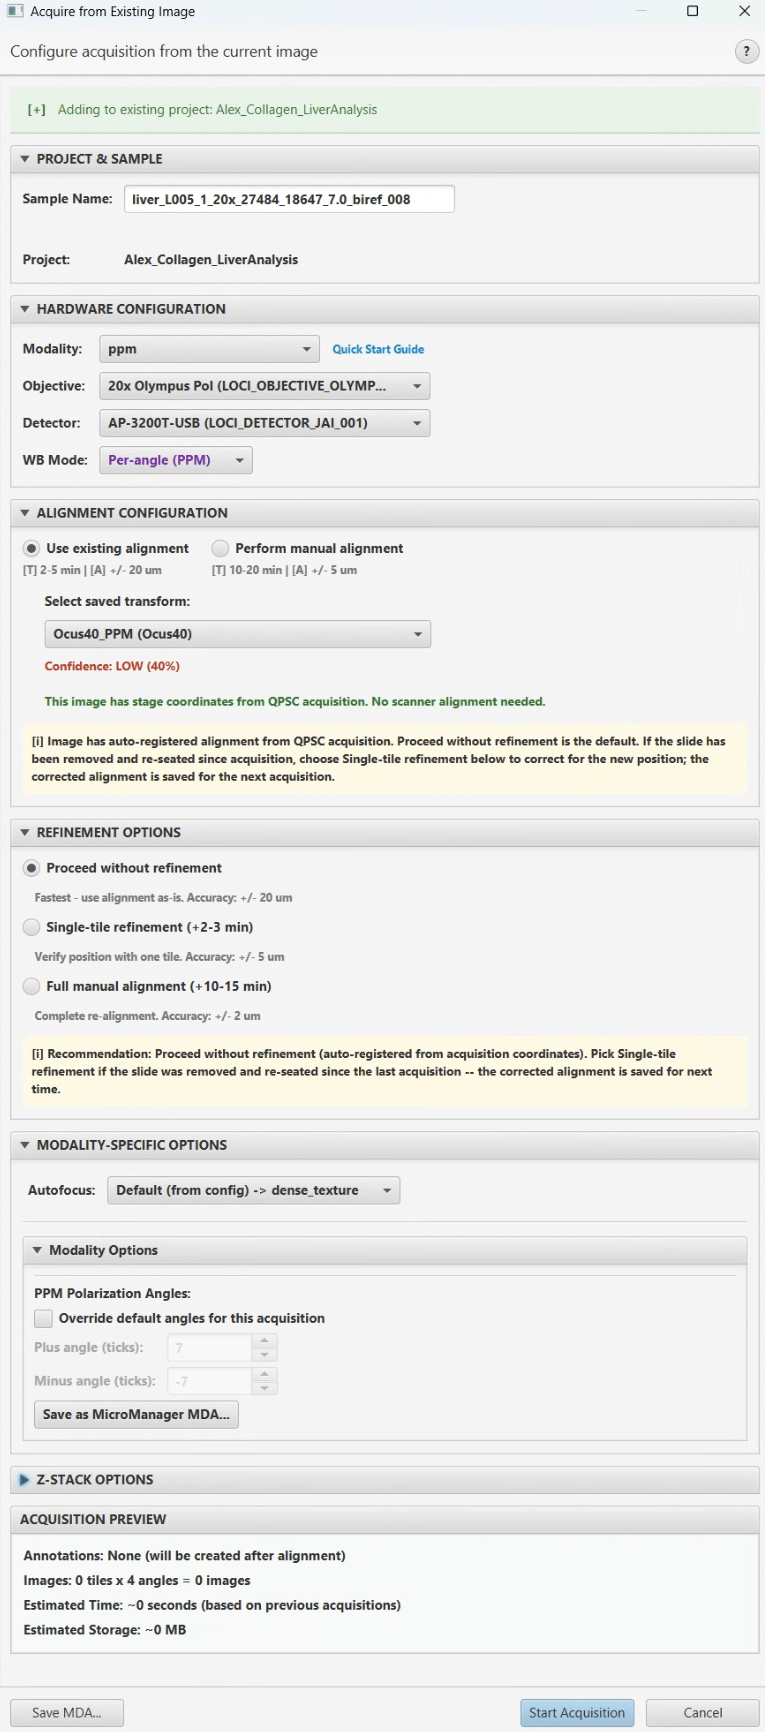
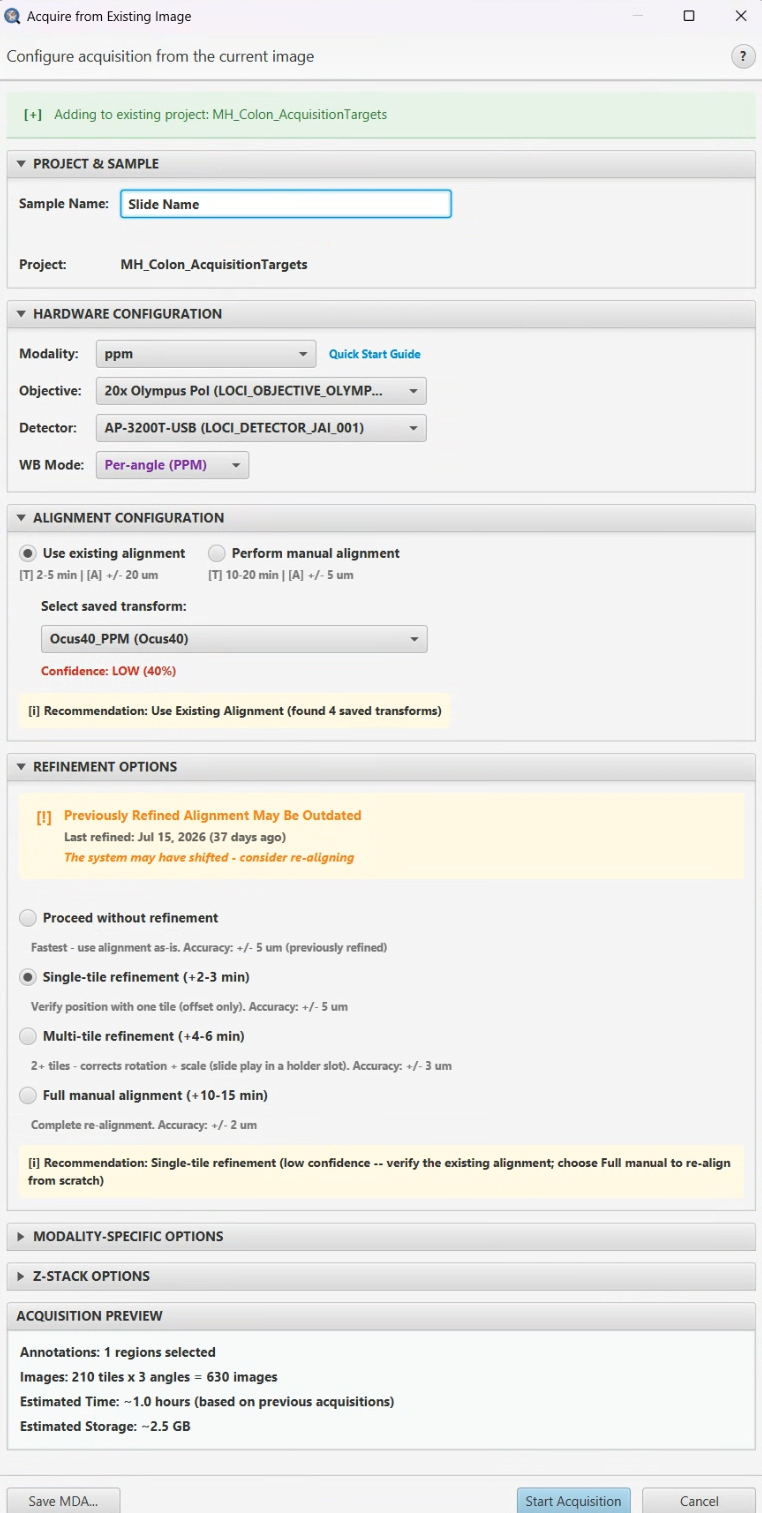
docs(images): refresh six stale screenshots, add modality/Z-stack and 4-slide figures
Re-captured on the Windows workstation: main menu, Stage Map, Live Viewer,
Bounded Acquisition, the Existing Image consolidated dialog, and the annotation
class-selection dialog that precedes it. All six were flagged by
check-doc-images.sh as stale since 2026-07-22.

Two new figures flesh out workflows that had no picture:
- Docs_ExistingImage_Modality_Zstack.png -- the MODALITY-SPECIFIC and Z-STACK
  panes expanded (they are collapsed in the consolidated-dialog figure), with
  the PPM angle checkboxes and per-angle exposures. This closes the
  "PPM modality options (angles)" gap in the registry's missing list.
- Docs_StageMap2.png -- the four-slide vertical carrier with per-slot macros,
  alongside the existing single-slide view.

The re-captures are raw, so the numbered brackets/circles that
annotate_screenshots.py used to bake onto three of them are gone. No doc prose
refers to those numbers, so the figures stand on their own; ANNOTATION_REFERENCE
now records the unannotated state and the stale Y-bands.

Claude-Session: https://claude.ai/code/session_01RGGpEUhYNeo6kpExXM8tGC

Changed region(s): [[0.0, 0.0, 0.9961, 1.0], [0.664, 0.963, 0.9961, 1.0], [0.9357, 0.0, 0.9961, 0.0621]]

diff --git a/documentation/images/IMAGE_REGISTRY.md b/documentation/images/IMAGE_REGISTRY.md
@@ -12,19 +12,20 @@ This file tracks the relationship between documentation screenshots and the Java
 |------------|-------------------|---------------|--------|
 | `Docs_AcquisitionWizard.png` | `ui/AcquisitionWizardDialog.java` | 2026-05-27 | OK |
 | `Docs_AcquisitionWorkflowProgress.png` | `ui/DualProgressDialog.java` | 2026-05-27 | OK |
-| `Docs_AnnotationAcquisition.png` | `ui/AnnotationAcquisitionDialog.java` | 2026-07-23 | OK -- re-mapped from the broad ExistingImageAcquisitionController to the actual class selection dialog; the multi-tile refinement radio lives in the consolidated dialog, not here, so this no longer false-flags |
+| `Docs_AnnotationAcquisition.png` | `ui/AnnotationAcquisitionDialog.java` | 2026-08-22 | OK -- re-captured (unannotated). Mapped to the actual class selection dialog rather than the broad ExistingImageAcquisitionController; the multi-tile refinement radio lives in the consolidated dialog, not here, so this no longer false-flags |
 | `Docs_AutofocusConfigurationEditor.png` | `controller/AutofocusEditorWorkflow.java` | 2026-05-27 | OK |
 | `Docs_AutofocusParameterBenchmark.png` | `ui/AutofocusBenchmarkDialog.java` | -- | CHECK |
 | `Docs_BackgroundCollection.png` | `ui/BackgroundCollectionController.java` | 2026-05-27 | OK |
-| `Docs_BoundedAcquisition.png` | `ui/UnifiedAcquisitionController.java` | 2026-05-27 | OK |
+| `Docs_BoundedAcquisition.png` | `ui/UnifiedAcquisitionController.java` | 2026-08-22 | OK -- re-captured (unannotated; the numbered callouts from the 2026-05-27 figure are gone) |
 | `Docs_BoundedAcquisition_TileGrid.png` | Lab-meeting slide deck (workflow figure; not a single UI class) | 2026-06-01 | OK |
 | `Docs_CameraControl.png` | `ui/CameraControlController.java` | 2026-05-27 | OK |
 | `Docs_CommunicationSettings.png` | `ui/ServerConnectionController.java` | 2026-05-27 | OK |
 | `Docs_CommunicationSettings_Alerts.png` | `ui/ServerConnectionController.java` | 2026-05-27 | OK |
 | `Docs_CrossInstrumentWorkflow.png` | Lab-meeting slide deck (workflow figure; not a single UI class) | 2026-06-01 | OK |
-| `Docs_ExistingImage_ConsolidatedDialog.png` | `ui/ExistingImageAcquisitionController.java` | 2026-05-27 | OK |
+| `Docs_ExistingImage_ConsolidatedDialog.png` | `ui/ExistingImageAcquisitionController.java` | 2026-08-22 | OK -- re-captured (unannotated). Modality / Z-stack panes are collapsed here; see `Docs_ExistingImage_Modality_Zstack.png` for those expanded |
 | `Docs_ExistingImage_FluorescenceProject.png` | Lab-meeting slide deck (QuPath project view; not a single UI class) | 2026-06-01 | OK |
-| `Docs_LiveViewer.png` | `ui/liveviewer/LiveViewerWindow.java` | 2026-05-27 | OK |
+| `Docs_ExistingImage_Modality_Zstack.png` | `ui/ExistingImageAcquisitionController.java`, `modality/ppm/ui/PPMBoundingBoxUI.java` | 2026-08-22 | OK -- the MODALITY-SPECIFIC + Z-STACK panes expanded (PPM angles shown); companion to the consolidated-dialog figure |
+| `Docs_LiveViewer.png` | `ui/liveviewer/LiveViewerWindow.java` | 2026-08-22 | OK -- re-captured (unannotated; the numbered callouts from the 2026-05-27 figure are gone) |
 | `Docs_LiveViewer_Navigate.png` | `ui/liveviewer/StageControlPanel.java` | -- | CHECK -- renamed from `Docs_LiveViewer_Position.png` (tab renamed Position -> Navigate 2026-07-22); needs re-capture |
 | `Docs_LiveViewer_SavedPoints.png` | `ui/liveviewer/StageControlPanel.java` | 2026-07-22 | OK -- drift check false-flagged it on 2026-07-22 (shared source with Navigate); no visible change, no re-capture needed |
 | `Docs_LiveViewer_Camera.png` | `ui/liveviewer/LiveViewerWindow.java` (camera tab) | -- | CHECK -- previously untracked |
@@ -32,7 +33,8 @@ This file tracks the relationship between documentation screenshots and the Java
 | `Docs_MicroscopeAlignment_RefineAlignment.png` | `controller/workflow/SingleTileRefinement.java` (3-point / single-tile refinement dialog) | -- | CHECK -- SIFT refinement dialogs changed substantially; verify or re-capture |
 | `Docs_MultiTileRefinement.png` | `controller/workflow/MultiTileRefinement.java` (numbered multi-tile SIFT panel, initial state) | 2026-07-23 | OK |
 | `Docs_MultiTileRefinement2.png` | `controller/workflow/MultiTileRefinement.java` (per-point capture state) + SIFT Matching Settings dialog (`ui/SiftAutoAlignHelper.java`) | 2026-07-23 | OK |
-| `Docs_StageMap.png` | `ui/stagemap/StageMapWindow.java`, `ui/stagemap/StageMapCanvas.java` | -- | CHECK -- new "Calibrate..." button since 2026-05-27 |
+| `Docs_StageMap.png` | `ui/stagemap/StageMapWindow.java`, `ui/stagemap/StageMapCanvas.java` | 2026-08-22 | OK -- re-captured; single horizontal slide with macro overlay, now showing the Slide-placement dropdown and "Calibrate..." |
+| `Docs_StageMap2.png` | `ui/stagemap/StageMapWindow.java`, `ui/stagemap/StageMapCanvas.java` | 2026-08-22 | OK -- four-slide vertical carrier with per-slot macros. Supersedes `Docs_MultiSlide_StageMap.png` as the current-UI capture of this insert (that one predates the Slide-placement dropdown but is still the figure used in the multi-slide workflow doc) |
 | `Docs_DishCoverslipCalibration.png` | Diagram / `ui/stagemap/StageMapWindow.java` insert calibration | -- | CHECK -- previously untracked |
 | `Docs_PropagationManager.png` | `controller/ForwardPropagationWorkflow.java` | -- | CHECK -- previously untracked |
 | `Docs_NoiseCharacterization.png` | `ui/NoiseCharacterizationDialog.java` | -- | CHECK -- previously untracked |
@@ -42,7 +44,7 @@ This file tracks the relationship between documentation screenshots and the Java
 | `Docs_SystemArchitecture.png` | Lab-meeting slide deck (architecture diagram; not a UI class) | 2026-06-01 | OK |
 | `Docs_WorkflowOverview_Desktop.png` | Lab-meeting slide deck (full-desktop composite; multiple UI classes) | 2026-06-01 | OK |
 | `Docs_WhiteBalanceCalibration.png` | `ui/WhiteBalanceDialog.java` | 2026-05-27 | OK |
-| `Docs_mainmenu.png` | `SetupScope.java` | -- | CHECK -- menu changes since 2026-05-27 |
+| `Docs_mainmenu.png` | `SetupScope.java` | 2026-08-22 | OK -- re-captured after the Light Path Orientation / Migrate Flipped Duplicates menu additions |
 | `Docs_ppmmenu.png` | `SetupScope.java` (PPM modality submenu) | -- | CHECK |
 | `Docs_MultiSlide_Assignment.png` | `ui/MultiSlideAssignmentDialog.java` | 2026-07-23 | OK |
 | `Docs_MultiSlide_BatchPanel.png` | `controller/MultiSlideExistingImageWorkflow.java` | 2026-07-23 | OK |
@@ -60,7 +62,6 @@ This file tracks the relationship between documentation screenshots and the Java
 | Alignment Refinement with SIFT | `controller/workflow/SingleTileRefinement.java` | `Docs_AlignmentRefinementSIFT.png` |
 | Propagation Manager | `controller/ForwardPropagationWorkflow.java` | `Docs_PropagationManager.png` |
 | Z-Stack / Time-Lapse Dialog | `controller/StackTimeLapseWorkflow.java` | `Docs_ZStackTimeLapse.png` |
-| PPM modality options (angles) in acquisition dialog | `modality/ppm/*` UI section | `Docs_PPM_ModalityOptions.png` |
 | PPM Polarizer Calibration dialog | qupath-extension-ppm | `Docs_PPM_PolarizerCalibration.png` |
 | PPM Birefringence Optimization dialog | qupath-extension-ppm | `Docs_PPM_BirefringenceOptimization.png` |
 | PPM Reference Slide / Sunburst calibration | qupath-extension-ppm | `Docs_PPM_ReferenceSlide.png` |

diff --git a/documentation/images/ANNOTATION_REFERENCE.md b/documentation/images/ANNOTATION_REFERENCE.md
@@ -10,8 +10,14 @@
 > updated to match. If this file disagrees with the current dialog, the
 > current dialog wins -- fix this file as part of the same change.
 >
-> Last reconciled against the UI: **2026-07-22** (see per-image "Verified"
+> Last reconciled against the UI: **2026-08-22** (see per-image "Verified"
 > notes; unverified rows are carried over from the script and may be stale).
+>
+> **State as of 2026-08-22: none of the four images below carry annotations any
+> more.** All were re-captured raw on the Windows workstation, so every bracket
+> and circle is gone and every Y-band in `tools/annotate_screenshots.py` is
+> stale. No prose in the docs refers to the numbers, so the figures read fine
+> as-is; the tables below are the spec if someone re-runs the annotator.
 
 ## How the annotations are produced
 
@@ -59,7 +65,7 @@ so it can run in CI or a pre-push agent pass.
 
 ### Docs_ExistingImage_ConsolidatedDialog.png  (`annotate_existing_image_dialog`)
 Style: numbered brackets down the left margin.
-**Verified 2026-07-22: the committed image is a RAW re-capture with NO brackets,
+**Verified 2026-08-22: the committed image is a RAW re-capture with NO brackets,
 and the section list in the script is stale (it still says "Advanced Options").**
 Current real sections, top to bottom:
 
@@ -68,7 +74,7 @@ Current real sections, top to bottom:
 | 1 | Project & Sample | Sample Name, Project |
 | 2 | Hardware Configuration | Modality, Objective, Detector, WB Mode |
 | 3 | Alignment Configuration | Use existing / manual; saved transform; confidence |
-| 4 | Refinement Options | Proceed without / Single-tile / Full manual |
+| 4 | Refinement Options | Proceed without / Single-tile / Multi-tile / Full manual |
 | 5 | Modality-Specific Options | Autofocus + Modality Options (PPM Polarization Angles, Save as MDA) -- script mislabels this "Advanced Options" |
 | 6 | Z-Stack Options | Collapsed section -- new since the script was written |
 | 7 | Acquisition Preview | Annotations / Images / Est. time / storage |
@@ -78,10 +84,10 @@ and re-measure all Y-bands against the new capture.
 
 ### Docs_BoundedAcquisition.png  (`annotate_bounded_acquisition`)
 Style: numbered brackets down the left margin.
-**Verified 2026-07-22: brackets are present but MISALIGNED with the current
-layout** (e.g. #3 is labeled "Bounding Box Region" in the script but brackets
-Hardware Configuration; the collapsible sections shifted everything below
-Acquisition Region). Current real sections:
+**Verified 2026-08-22: the committed image is a RAW re-capture with NO brackets.**
+(The 2026-07-22 capture had brackets, but they were misaligned -- #3 was labeled
+"Bounding Box Region" in the script while bracketing Hardware Configuration.)
+Current real sections:
 
 | # | Target section | Notes |
 |---|----------------|-------|
@@ -114,10 +120,11 @@ does not number it. Add a target if you want it labeled.)
 
 ### Docs_LiveViewer.png  (`annotate_live_viewer`)
 Style: numbered circles at region centers + colored highlight boxes.
-**NOT re-verified 2026-07-22.** Flagged by the drift check (new XYZ position
-overlay toggle, histogram dock toggle, and more controls). The region model is
-likely still valid but the box coordinates need re-measuring, and a new toggle
-may deserve its own number.
+**Verified 2026-08-22: the committed image is a RAW re-capture with NO circles
+or highlight boxes.** The five-region model below still matches the window; only
+the box coordinates need re-measuring. The toolbar has since gained XYZ and
+Hist toggles, and the right panel now has three tabs (Navigate / Saved Points /
+Camera) -- either may deserve its own number.
 
 | # | Target region | Notes |
 |---|----------------|-------|

diff --git a/documentation/tools/existing-image-acquisition.md b/documentation/tools/existing-image-acquisition.md
@@ -117,6 +117,10 @@ When using a brightfield modality, a live readout appears showing the resolved a
 
 When using a PPM modality, the hardware configuration pane includes angle selection checkboxes and a **live readout** showing the resolved acquisition values — the exposure (in milliseconds) that will be used for each selected angle. These values update live as you change the objective, detector, white-balance mode, or angle selections, so you can verify what the acquisition will actually use before starting.
 
+**MODALITY-SPECIFIC OPTIONS and Z-STACK OPTIONS** are collapsed in the figure above. Expanded, they carry the autofocus profile, the modality's own controls (here the PPM polarization angles with their auto-derived per-angle exposures), and the full Z-stack configuration:
+
+![The MODALITY-SPECIFIC OPTIONS pane showing the autofocus profile selector and the PPM angle checkboxes with per-angle exposures, above the Z-STACK OPTIONS pane showing Z range, Z step, projection, stitched output and loop order](../images/Docs_ExistingImage_Modality_Zstack.png)
+
 ### Acquisition & Stitching Options
 
 | Option | Type | Default | Description |

diff --git a/documentation/tools/stage-map.md b/documentation/tools/stage-map.md
@@ -9,6 +9,10 @@ Visual representation of the microscope stage insert showing slide positions. He
 
 ![Stage Map window](../images/Docs_StageMap.png)
 
+The layout drawn on the canvas follows the **Insert** dropdown. Above is a single horizontal slide with its macro overlaid; below is the four-slide vertical carrier used for [Multi-Slide Batch Acquisition](multi-slide-acquisition.md), where each slot shows its assigned macro and the green region selected for acquisition. **Overlay Macro** is greyed out for multi-slot carriers -- a single macro belongs to one slot, so the per-slot previews are used instead.
+
+![Stage Map showing the four-slide vertical carrier: each of the four slots holds an assigned slide macro with a green acquisition region, and the lime crosshair marks the current stage position in slot 4](../images/Docs_StageMap2.png)
+
 ## Prerequisites
 
 - Connected to microscope server (see [Communication Settings](server-connection.md))
